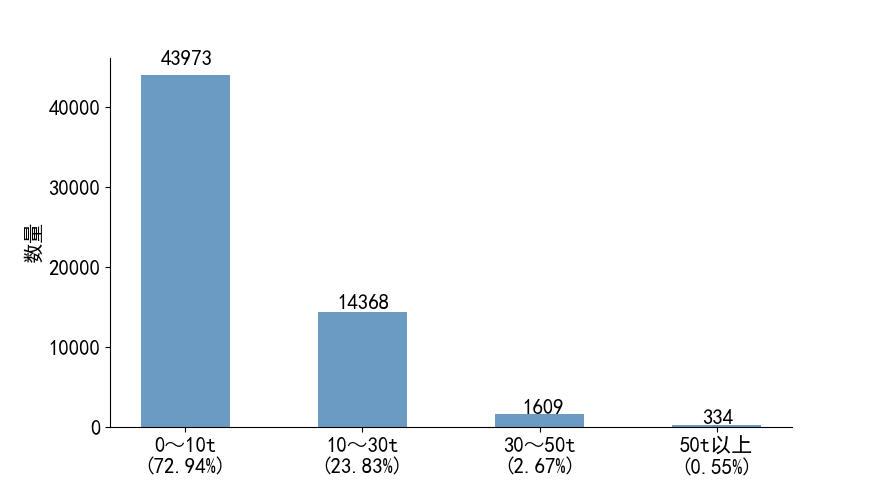
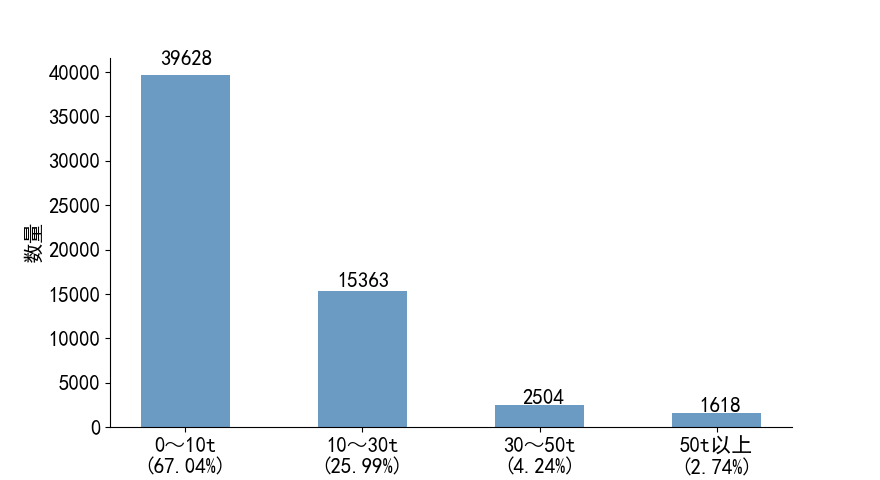
update for 202006

diff --git a/HelinConsoleApp/Program.cs b/HelinConsoleApp/Program.cs
@@ -81,8 +81,8 @@ namespace HelinConsoleApp
             var Gross_Load_Dist = new List<int>();
             var Gross_Load_Dist2 = new List<int>();
 
-            var StartDataTime = new DateTime(2020, 5, 1, 0, 0, 0);
-            var FinishDataTime = new DateTime(2020, 6, 1, 0, 0, 0);
+            var StartDataTime = new DateTime(2020, 6, 1, 0, 0, 0);
+            var FinishDataTime = new DateTime(2020, 7, 1, 0, 0, 0);
 
             //Expression<Func<HS_Data_201908, bool>> dataPredicate = x => x.HSData_DT >= StartDataTime && x.HSData_DT <= FinishDataTime;
 
@@ -92,7 +92,7 @@ namespace HelinConsoleApp
                 {
                     #region HS_DataForAnalysis
                     var HS_DataForAnalysis = (
-                        from c in db.HS_Data_202004
+                        from c in db.HS_Data_202005
                         select new MyHS_Data
                         {
                             Acceleration = c.Acceleration,
@@ -135,7 +135,7 @@ namespace HelinConsoleApp
                             Gross_Load = c.Gross_Load
                         }
                         ).Union(
-                        from e in db.HS_Data_202005
+                        from e in db.HS_Data_202006
                         select new MyHS_Data
                         {
                             Acceleration = e.Acceleration,

diff --git a/PythonApplication/PythonApplication.py b/PythonApplication/PythonApplication.py
@@ -88,10 +88,10 @@ def plotItem(plt,itemChosen):
     #不同时间段车辆总数
     #不同速度车辆数及比例
     y_dataList=[
-    [43973,14368,1609,334],
-    [39350,6614,14951,718],
-    [5462,4712,4251,10105,14100,14345,13537,14582,15726,11551,7355,6191],
-    [913,42737,70069,8198]
+    [39628,15363,2504,1618],
+    [33272,10621,8918,1510],
+    [5766,4867,5036,10831,12951,12023,10789,11526,14116,11617,7771,6141],
+    [1074,38656,65919,7785]
     ]
 
     ## 包含每个柱子对应值的序列
